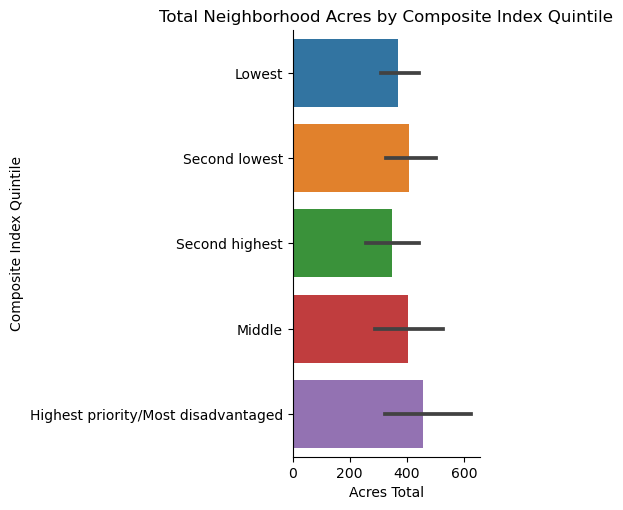
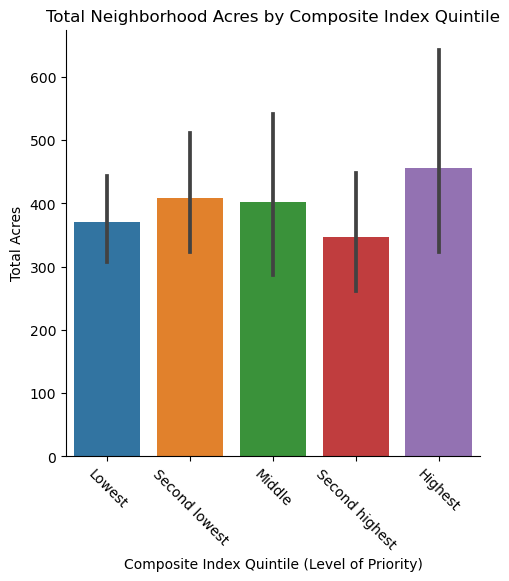
fourth and fifth plots added

diff --git a/analysis.py b/analysis.py
@@ -31,25 +31,65 @@ def plot_problem_two(clean_data):
     plt.savefig('socioecon_vs_mentalhealth.png', bbox_inches='tight')
 
 
-def plot_question_three(clean_data):
+def plot_problem_three(clean_data):
     # total acres vs. index quintile
-    # grouped = data.groupby('COMPOSITE_QUINTILE')['ACRES_TOTAL'].mean()
-    sns.catplot(x='ACRES_TOTAL',
-                y='COMPOSITE_QUINTILE',
+    sns.catplot(x='COMPOSITE_QUINTILE',
+                y='ACRES_TOTAL',
                 data=clean_data,
-                kind='bar')
-
-    plt.xlabel('Acres Total')
-    plt.ylabel('Composite Index Quintile')
+                kind='bar',
+                order=['Lowest', 'Second lowest', 'Middle',
+                       'Second highest', 'Highest'])
+    plt.xlabel('Composite Index Quintile (Level of Priority)')
+    plt.ylabel('Total Acres')
+    plt.xticks(rotation=-45)
     plt.title('Total Neighborhood Acres by Composite Index Quintile')
     plt.savefig('size_vs_quintile.png', bbox_inches='tight')
+
+
+def plot_problem_four(clean_data):
+    # socioeconomic percentile vs. educational attainment
+    sns.lmplot(x='SOCIOECONOMIC_PERCENTILE',
+               y='PCT_LESS_BACHELOR_DEGREE',
+               scatter=True,
+               fit_reg=True,
+               data=clean_data)
+    plt.xlabel('Socioeconomic Disadvantage Percentile')
+    plt.ylabel('Percent of People with Less than Bachelors Degree')
+    plt.title('Socioeconomic Disadvantage vs. Educational Attainment')
+    plt.savefig('socioecon_vs_education.png', bbox_inches='tight')
+
+
+def plot_problem_five(clean_data):
+    # Percent POC & ELL vs. socioeconomic index
+    fig, [ax1, ax2] = plt.subplots(2, figsize=(10, 10), ncols=1)
+    sns.barplot(x='SOCIOECONOMIC_QUINTILE',
+                y='PCT_PEOPLE_OF_COLOR',
+                data=clean_data,
+                order=['Lowest', 'Second lowest', 'Middle',
+                       'Second highest', 'Highest'],
+                ax=ax1)
+    ax1.set_xlabel('Socioeconomic Disadvantage Quintile')
+    ax1.set_ylabel('Percent of People of Color')
+    ax1.set_title('Percent of POC by Socioeconomic Disadvantage Quintile')
+    sns.barplot(x='SOCIOECONOMIC_QUINTILE',
+                y='PCT_ENGLISH_LESSTHAN_VERY_WELL',
+                data=clean_data,
+                order=['Lowest', 'Second lowest', 'Middle',
+                       'Second highest', 'Highest'],
+                ax=ax2)
+    ax2.set_xlabel('Socioeconomic Disadvantage Quintile')
+    ax2.set_ylabel('Percent of English Language Learners')
+    ax2.set_title('Percent of ELL by Socioeconomic Disadvantage Quintile')
+    fig.savefig('poc&ell_vs_socioecon.png', bbox_inches='tight')
 
 
 def main():
     clean_data = filter_data()
     plot_problem_one(clean_data)
     plot_problem_two(clean_data)
-    plot_question_three(clean_data)
+    plot_problem_three(clean_data)
+    plot_problem_four(clean_data)
+    plot_problem_five(clean_data)
 
 
 if __name__ == '__main__':

diff --git a/clean_data.py b/clean_data.py
@@ -15,8 +15,10 @@ def filter_data():
     df = df.dropna()
     data = df[['PCT_ADULTMENTALHEALTHNOTGOOD', 'RACE_ELL_ORIGINS_PERCENTILE',
                'SOCIOECONOMIC_PERCENTILE', 'PCT_ENGLISH_LESSTHAN_VERY_WELL',
+               'PCT_PEOPLE_OF_COLOR', 'SOCIOECONOMIC_QUINTILE',
                'PCT_LESS_BACHELOR_DEGREE', 'ACRES_TOTAL', 'COMPOSITE_QUINTILE',
               'NAME10']]
+    data = data.replace({'Highest priority/Most disadvantaged': 'Highest'})
     return data
 
 
